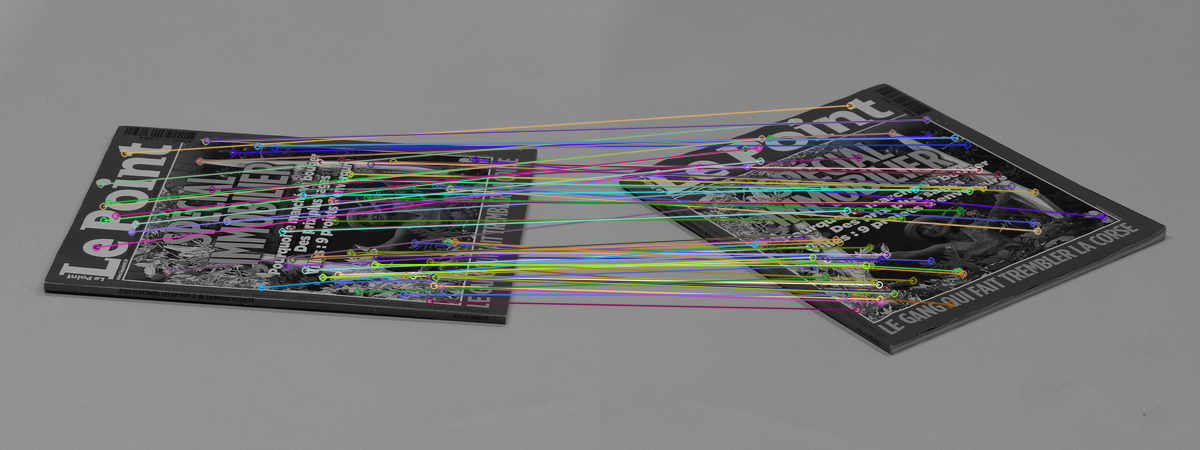
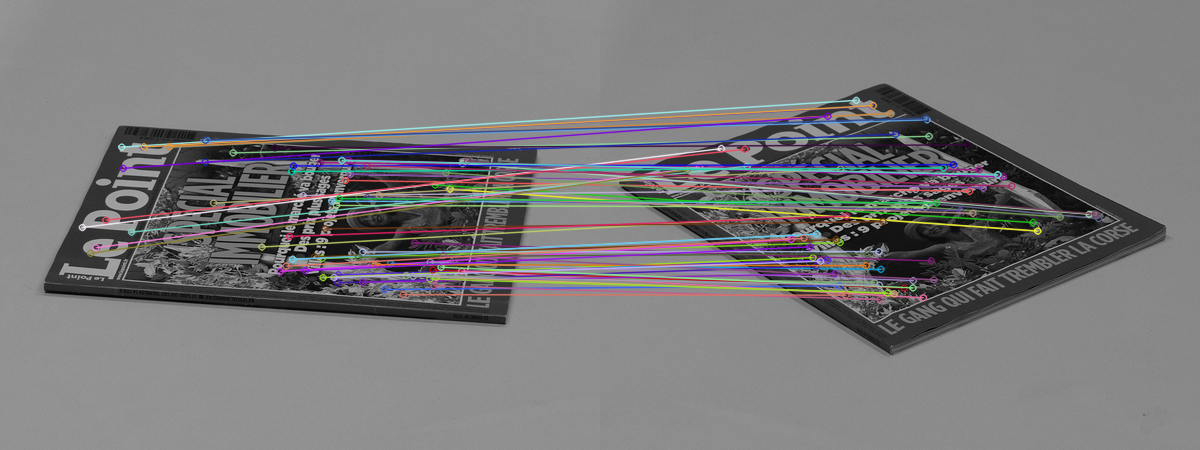
refactored things, finally ready to build tests

Changed region(s): [[0.0617, 0.2178, 0.925, 0.7156]]

diff --git a/CSS487-Project/main.cpp b/CSS487-Project/main.cpp
@@ -11,6 +11,7 @@ using namespace std;
 
 // OpenCV imports.
 #include <opencv2/core.hpp>
+#include <opencv2/core/utils/logger.hpp>
 #include <opencv2/highgui.hpp>
 #include <opencv2/imgproc.hpp>
 using namespace cv;
@@ -25,6 +26,8 @@ const string IMAGE_2_FILENAME = "image2.png";
 const int BEST_MATCHES_TO_DISPLAY = 75;
 
 const float DISTANCE_RATIO_THRESHOLD = 0.7f;
+
+ASiftDetector asd;
 
 // BRISKDetectAndCompute: Performs keypoint detection and descriptor calculation via BRISK.
 // Preconditions: Image passed in is a Mat that represents a grayscale image.
@@ -61,58 +64,86 @@ void trimBestMatches(vector<DMatch>& bestMatches) {
 	bestMatches = vector<DMatch>(bestMatches.begin(), end);
 }
 
-// main:
-// Preconditions: 
-// Postconditions: 
-int main(int argc, char* argv[])
+auto findKeypoints(const Mat &img, vector<KeyPoint> &keypoints, Mat &descriptors, bool abrisk)
 {
-	// Load up the images.
-	Mat image1 = imread(IMAGE_1_FILENAME, IMREAD_GRAYSCALE);
-	Mat image2 = imread(IMAGE_2_FILENAME, IMREAD_GRAYSCALE);
-
-	// Simple error checking.
-	if (image1.data == NULL || image2.data == NULL) {
-		cout << "One of the two image strings are either invalid or don't exist" << endl;
-		return 0;
+	if (abrisk)
+	{
+		asd.detectAndCompute(img, keypoints, descriptors);
 	}
-	
-	// Find keypoints and descriptors using ASIFT.
-	ASiftDetector asd;
+	else
+	{
+		BRISKDetectAndCompute(img, keypoints, descriptors);
+	}
+}
+
+auto matchDescriptors(Mat &descriptors1, Mat &descriptors2,
+					vector<vector<DMatch>> &matches,
+					bool bruteforce)
+{
+	if (bruteforce)
+	{
+		BFMatcher matcher = BFMatcher(NORM_HAMMING);
+		matcher.knnMatch(descriptors1, descriptors2, matches, 2);
+	}
+	else
+	{
+		FlannBasedMatcher matcher;
+		descriptors1.convertTo(descriptors1, CV_32F);		// Convert to CV_32F to work with FLANN.
+		descriptors2.convertTo(descriptors2, CV_32F);		// Convert to CV_32F to work with FLANN.
+		matcher.knnMatch(descriptors1, descriptors2, matches, 2);
+	}
+}
+
+void saveAndShow(const Mat &image1, const vector<KeyPoint> keypoints1,
+				const Mat& image2, const vector<KeyPoint> keypoints2,
+				const vector<DMatch> matches,
+				string filename)
+{
+	// Show the matches.
+	Mat matchesImage;
+	drawMatches(image1, keypoints1,
+		image2, keypoints2,
+		matches, matchesImage,
+		Scalar::all(-1), 1, vector< char >(),
+		DrawMatchesFlags::NOT_DRAW_SINGLE_POINTS);
+	imshow("myoutput", matchesImage);
+	waitKey(0);
+
+	// Save it.
+	imwrite(filename, matchesImage);
+}
+
+void findAndMatchKeypoints(const Mat& image1, const Mat& image2, bool abrisk, bool bruteforce, string filename)
+{
+	// Find keypoints and descriptors.
 	Mat descriptors1, descriptors2;
 	vector<KeyPoint> keypoints1, keypoints2;
 
 	// First image.
 	auto startTime = chrono::high_resolution_clock::now();
-	//BRISKDetectAndCompute(image1, keypoints1, descriptors1);
-	asd.detectAndCompute(image1, keypoints1, descriptors1);		// ASIFT.
+	findKeypoints(image1, keypoints1, descriptors1, abrisk);
 	auto endTime = chrono::high_resolution_clock::now();
 	auto time = endTime - startTime;
 	cout << keypoints1.size() << " Keypoints for first image found ("
-			<< time / chrono::milliseconds(1) << " ms)" << endl;
+		<< time / chrono::milliseconds(1) << " ms)" << endl;
 
 	// Second image.
 	startTime = chrono::high_resolution_clock::now();
-	//BRISKDetectAndCompute(image2, keypoints2, descriptors2);
-	asd.detectAndCompute(image2, keypoints2, descriptors2);		// ASIFT.
+	findKeypoints(image2, keypoints2, descriptors2, abrisk);
 	endTime = chrono::high_resolution_clock::now();
 	time = endTime - startTime;
 	cout << keypoints2.size() << " Keypoints for second image found ("
 		<< time / chrono::milliseconds(1) << " ms)" << endl;
 	cout << "Performing matching..." << endl;
-	
-	// Match descriptors between images.
-	FlannBasedMatcher matcher;
-	//BFMatcher matcher = BFMatcher(NORM_HAMMING);
-	vector<vector<DMatch>> matches;
 
-	descriptors1.convertTo(descriptors1, CV_32F);				// Convert to CV_32F to work with FLANN.
-	descriptors2.convertTo(descriptors2, CV_32F);				// Convert to CV_32F to work with FLANN.
+	// Match descriptors between images.
+	vector<vector<DMatch>> matches;
 	startTime = chrono::high_resolution_clock::now();
-	matcher.knnMatch(descriptors1, descriptors2, matches, 2);
+	matchDescriptors(descriptors1, descriptors2, matches, bruteforce);
 	endTime = chrono::high_resolution_clock::now();
 	time = endTime - startTime;
 	cout << "Found " << matches.size() << " matches("
-			<< time / chrono::milliseconds(1) << " ms)" << endl;
+		<< time / chrono::milliseconds(1) << " ms)" << endl;
 
 	// Extract the best matches using Lowe's ratio test.
 	vector<DMatch> bestMatches;
@@ -121,8 +152,8 @@ int main(int argc, char* argv[])
 	extractBestMatches(matches, bestMatches, ratioSum);
 	endTime = chrono::high_resolution_clock::now();
 	time = endTime - startTime;
-	cout << "# of Good Matches Found: "  << bestMatches.size() << " ("
-			<< time / chrono::milliseconds(1) << " ms)" << endl;
+	cout << "# of Good Matches Found: " << bestMatches.size() << " ("
+		<< time / chrono::milliseconds(1) << " ms)" << endl;
 	float averageRatio = ratioSum / bestMatches.size();
 	cout << "Average distance ratio among good matches: " << averageRatio << endl;
 
@@ -130,17 +161,32 @@ int main(int argc, char* argv[])
 	trimBestMatches(bestMatches);
 
 	// Draw the matches between the images and display them.
-	Mat matchesImage;
-	drawMatches(image1, keypoints1,
-				image2, keypoints2,
-				bestMatches, matchesImage, 
-				Scalar::all(-1), 1, vector< char >(),
-				DrawMatchesFlags::NOT_DRAW_SINGLE_POINTS);
-	imshow("myoutput", matchesImage);
-	waitKey(0);
+	saveAndShow(image1, keypoints1, image2, keypoints2, bestMatches, filename);
+}
 
-	// Save the result.
-	imwrite("matches.png", matchesImage);
+// main:
+// Preconditions: 
+// Postconditions: 
+int main(int argc, char* argv[])
+{
+	// This removes the logging messages from the terminal.
+	utils::logging::setLogLevel(utils::logging::LogLevel::LOG_LEVEL_SILENT);
+
+	// Load up the images.
+	Mat image1 = imread(IMAGE_1_FILENAME, IMREAD_GRAYSCALE);
+	Mat image2 = imread(IMAGE_2_FILENAME, IMREAD_GRAYSCALE);
+
+	// Simple error checking.
+	if (image1.data == NULL || image2.data == NULL) {
+		cout << "One of the two image strings are either invalid or don't exist" << endl;
+		return EXIT_FAILURE;
+	}
+	
+	findAndMatchKeypoints(image1, image2, true, true, "matches.png");
+
+	cout << endl << "================" << endl << endl;
+
+	findAndMatchKeypoints(image1, image2, false, true, "matches-1.png");
 
 	return EXIT_SUCCESS;
 }

diff --git a/CSS487-Project/ASiftDetector.cpp b/CSS487-Project/ASiftDetector.cpp
@@ -21,7 +21,7 @@ using namespace std;
 
 ASiftDetector::ASiftDetector() { }
 
-void ASiftDetector::detectAndCompute(const Mat& img, vector<KeyPoint>& keypoints, Mat& descriptors)
+void const ASiftDetector::detectAndCompute(const Mat& img, vector<KeyPoint>& keypoints, Mat& descriptors)
 {
     keypoints.clear();
     descriptors = Mat(0, 128, CV_32F);
@@ -37,7 +37,7 @@ void ASiftDetector::detectAndCompute(const Mat& img, vector<KeyPoint>& keypoints
     }
 }
 
-void ASiftDetector::computeTask(int tl, const Mat &img, vector<KeyPoint> &keypoints, Mat &descriptors)
+void const ASiftDetector::computeTask(int tl, const Mat &img, vector<KeyPoint> &keypoints, Mat &descriptors)
 {
     double t = pow(sqrt(2), tl - 1);
     for (int phi = 0; phi < 180; phi += 72.0 / t)
@@ -79,7 +79,7 @@ void ASiftDetector::computeTask(int tl, const Mat &img, vector<KeyPoint> &keypoi
     }
 }
 
-void ASiftDetector::affineSkew(double tilt, double phi, Mat& img, Mat& mask, Mat& Ai)
+void const ASiftDetector::affineSkew(double tilt, double phi, Mat& img, Mat& mask, Mat& Ai)
 {
     int h = img.rows;
     int w = img.cols;

diff --git a/CSS487-Project/ASiftDetector.h b/CSS487-Project/ASiftDetector.h
@@ -19,11 +19,11 @@ class ASiftDetector
 	public:
 		ASiftDetector();
 
-		void detectAndCompute(const Mat& img, vector< KeyPoint >& keypoints, Mat& descriptors);
+		void const detectAndCompute(const Mat& img, vector< KeyPoint >& keypoints, Mat& descriptors);
 
 	private:
 		mutex keypointsMutex, descriptorsMutex;
 
-		void compute(int tl, const Mat &img, vector<KeyPoint> &keypoints, Mat &descriptors);
-		void affineSkew(double tilt, double phi, Mat& img, Mat& mask, Mat& Ai);
+		void const computeTask(int tl, const Mat &img, vector<KeyPoint> &keypoints, Mat &descriptors);
+		void const affineSkew(double tilt, double phi, Mat& img, Mat& mask, Mat& Ai);
 };
